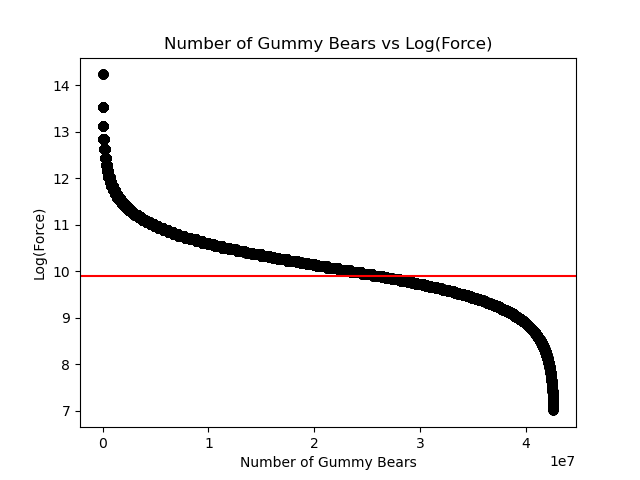
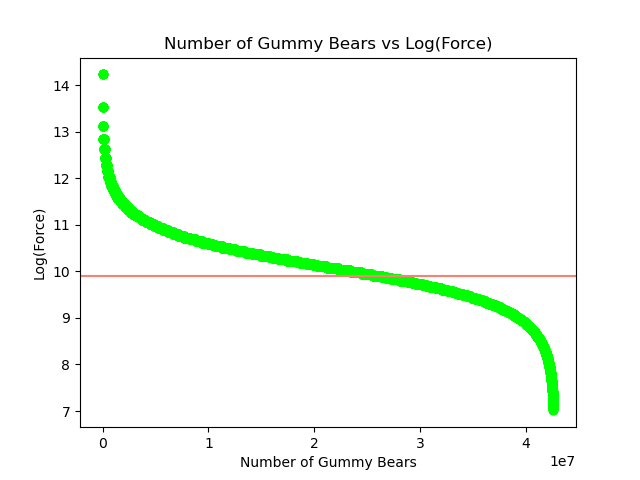
Edits on graph

Changed region(s): [[0.125, 0.2188, 0.9062, 0.875], [0.1562, 0.125, 0.1875, 0.1875], [0.0938, 0.8438, 0.125, 0.875]]

diff --git a/gp_group_17.py b/gp_group_17.py
@@ -136,8 +136,8 @@ def plotting_2d(X,Y):
     plt.title("Number of Gummy Bears vs Log(Force)")
     plt.ylabel("Log(Force)")
     plt.xlabel("Number of Gummy Bears")
-    plt.axhline(y = np.log(FEMUR_BREAKGE), c="red")
-    plt.scatter(X,Y, c="black")
+    plt.axhline(y = np.log(FEMUR_BREAKGE), c="salmon")
+    plt.scatter(X,Y, c="lime")
     plt.savefig("group_project_plot", DPI = 3000)
     plt.show()
 
@@ -191,7 +191,7 @@ def minimising_algorithm():
         number_array.append(g_number)
         print(force)
         print(g_number)
-        g_number += 100
+        g_number += 1000
 
     for i in range(len(raw_force_array)):
         if(raw_force_array[i] >= FEMUR_BREAKGE-0.2 and raw_force_array[i] <= FEMUR_BREAKGE+0.2):
